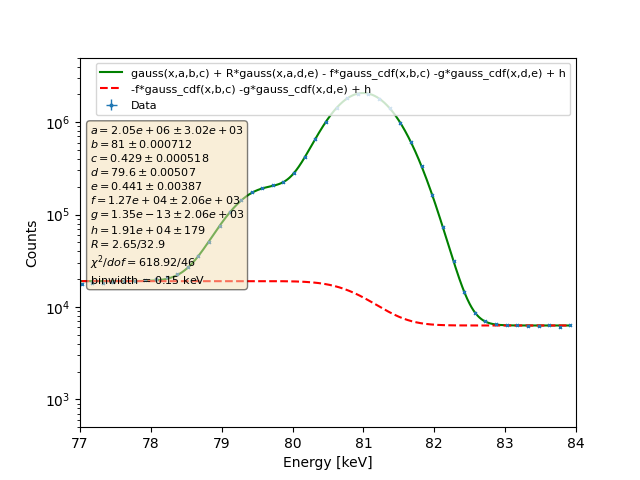
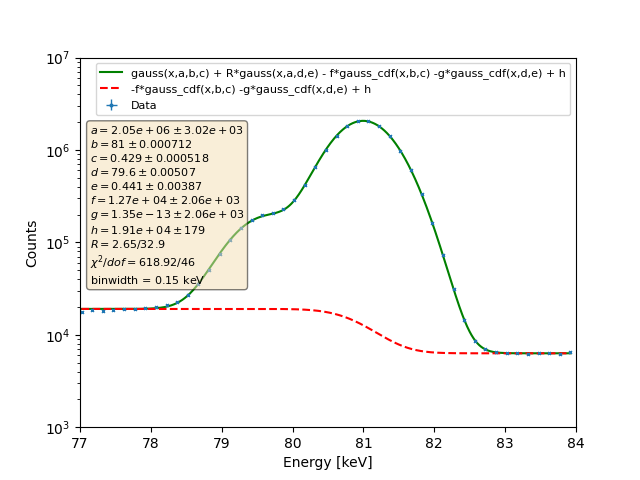
IC160A_ba_top_gammas_81mmNEW4_01 81 graph yaxis fixed

diff --git a/Ba133_analysis/simulations/IC-legend/macro/ba_top/PostProc/drawPostProcessed_FCCD.py b/Ba133_analysis/simulations/IC-legend/macro/ba_top/PostProc/drawPostProcessed_FCCD.py
@@ -64,7 +64,7 @@ def main():
     print("")
     print("Fitting peaks of interest...")
 
-    xmin_356, xmax_356 = 350, 362 #362 #360.5 for gammas #2 #360 #kev 
+    xmin_356, xmax_356 = 350, 360.5 #362 #360.5 for gammas #2 #360 #kev 
     plt.figure()
     counts, bins, bars = plt.hist(energies, bins = bins, histtype = 'step') #, linewidth = '0.35')
     popt, pcov, xfit = fit_peak_356_2("Energy (keV)", bins, counts, xmin_356, xmax_356)
@@ -87,8 +87,8 @@ def main():
     popt, pcov, xfit = fit_double_peak_81("Energy (keV)", bins, counts, xmin_81, xmax_81)
     a,b,c,d,e,f,g,h = popt[0],popt[1],popt[2],popt[3],popt[4],popt[5],popt[6],popt[7] 
     plt.xlim(xmin_81, xmax_81) 
-    plt.ylim(5*10**2, 5*10**6)
-    #plt.ylim(10**3, 10**7) #gammas_81mmNEW
+    #plt.ylim(5*10**2, 5*10**6)
+    plt.ylim(10**3, 10**7) #gammas_81mmNEW
     plt.yscale("log")
     plt.xlabel("Energy [keV]")
     plt.ylabel("Counts")
